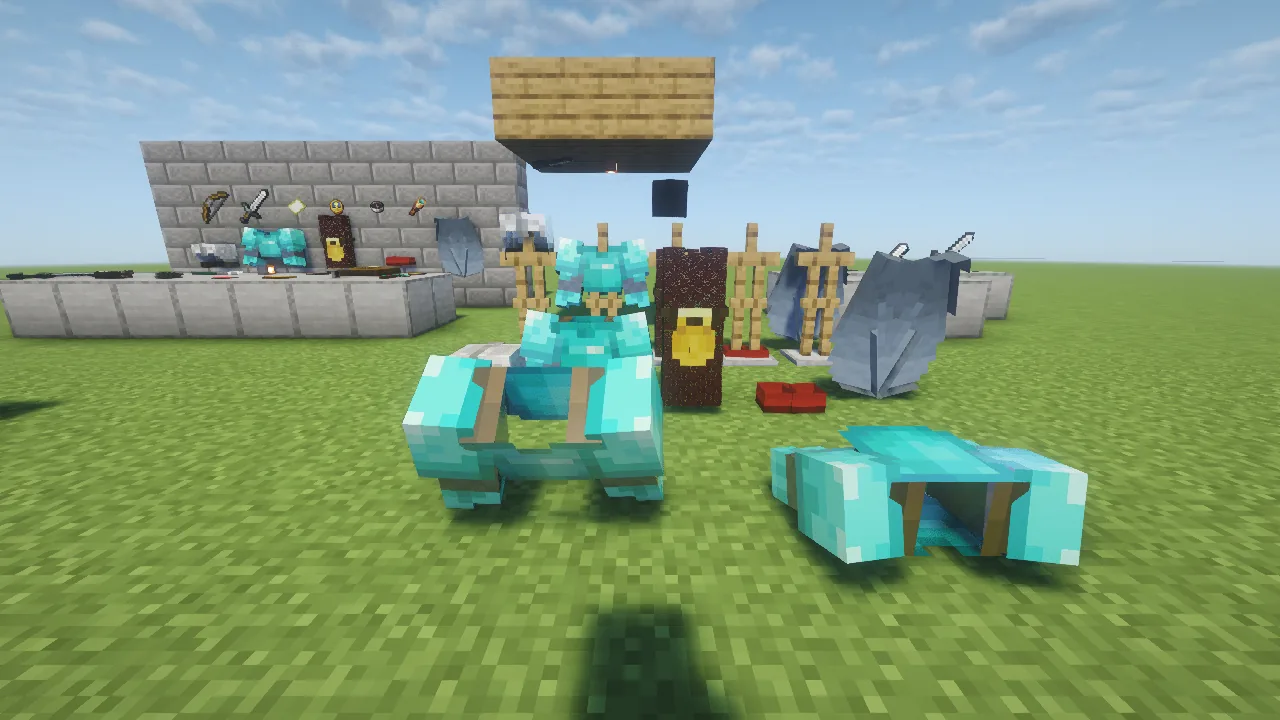
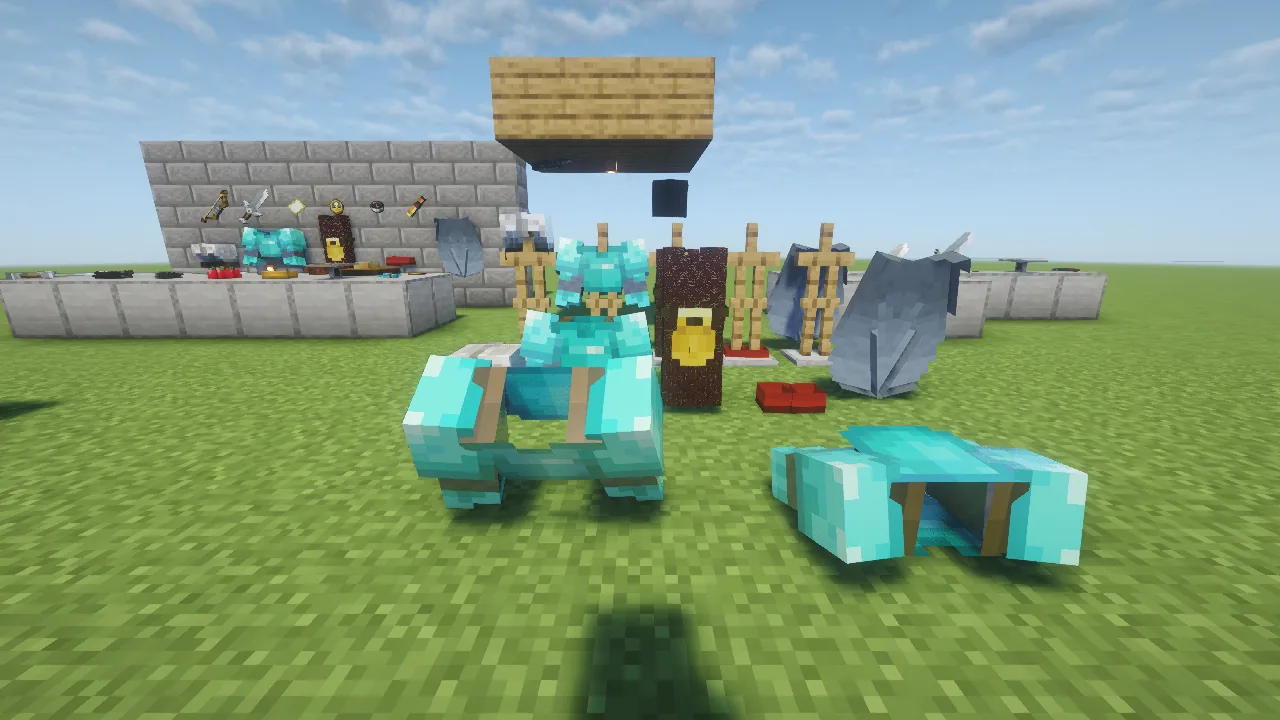
wiki: every photo from 1.1.0's booth; the wall's and the ceiling's cameras moved
1.1.0's page named img/held.webp without the image, and the rest were 1.0.0's (its sizes before
D-0006). The ceiling's eye stood inside the reference armour stand at z 0.5, so the page's ceiling
photo had been the inside of a chestplate since 1.0.0; it looks up from the open north side now.
The wall's stood two blocks off a wall six and a half wide; it stands back over the table, its feet
clear of the top (an eye at 2.3 had the game push the player out toward the wall). The sizes crop
takes in 1.1.0's longer sword. Booth: 29 checks green on this commit; nothing shipped changes.

diff --git a/src/gametest/java/com/chunkworks/setitdown/gametest/SetItDownBooth.java b/src/gametest/java/com/chunkworks/setitdown/gametest/SetItDownBooth.java
@@ -361,8 +361,11 @@ public final class SetItDownBooth {
         shot(s, t, mc, "booth-table-back", new Vec3(0.2, 2.35, -0.6), new Vec3(0.0, 1.05, -2.8));
         shot(s, t, mc, "booth-piles", new Vec3(-1.0, 1.75, -0.5), new Vec3(-1.0, 1.0, -1.6));
         shot(s, t, mc, "booth-wall", new Vec3(0.5, 2.3, -3.6), new Vec3(0.5, 2.0, -6.0));
-        shot(s, t, mc, "booth-wall-armour", new Vec3(0.3, 1.9, -3.9), new Vec3(0.3, 1.4, -6.0));
-        shot(s, t, mc, "booth-ceiling", new Vec3(7.5, 0.6, 0.6), new Vec3(7.5, 3.0, -1.6));
+        // Back over the table (the feet clear of its top, or the game pushes the player out toward the
+        // wall), so the five pieces (x -3 to 3.5) fit; the ceiling from its open north side, under its
+        // edge (its south side has the armour stands, and an eye at z 0.6 stood inside one).
+        shot(s, t, mc, "booth-wall-armour", new Vec3(0.3, 2.9, -2.2), new Vec3(0.3, 1.5, -6.0));
+        shot(s, t, mc, "booth-ceiling", new Vec3(7.5, 1.75, -3.4), new Vec3(7.5, 2.9, -1.6));
         shot(s, t, mc, "booth-armour", new Vec3(8.0, 1.6, 6.8), new Vec3(8.0, 0.5, 2.5));
         shot(s, t, mc, "booth-armour-side", new Vec3(4.0, 1.2, 3.0), new Vec3(8.0, 0.4, 3.5));
         shot(s, t, mc, "booth-tips", new Vec3(13.6, 1.5, 0.4), new Vec3(12.0, 1.1, -1.5));
